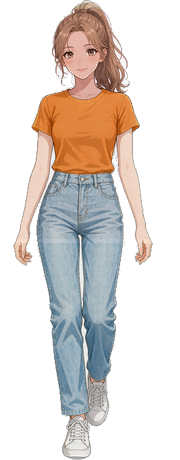
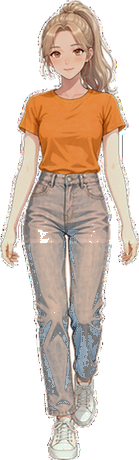
fix: 走路时发型会变——迈步帧的头发与站姿不一致
走路是 A(迈步)/B(并腿) 两帧交替。B 帧当初是从站姿反向「站直」派生的，
所以和站姿一致；A 帧是另一次独立生成，头发跟着重画了：

- 林知夏：A 帧发量明显更大、盖住耳朵，B 帧和站姿是别耳后的短发
- 苏桃：正面 A 帧头发整个披散、完全没扎马尾，B 帧和站姿都是高马尾

于是交替播放时头发在两帧之间跳。

处理：以 B 帧为参考、input_fidelity=high 做图生图，只改头发，保持姿势/脸/服装不变
（姿势没动，所以模型这次没有把腿改回去）：

- lin_walk1（侧面迈步）→ 头发改短改贴伏、别耳后
- lin_walk_f1（正面迈步）→ 同上
- su_walk_f1（正面迈步）→ 头发改回高马尾

新帧经 matte.prepare 归一化到 460 高，并按站姿/B 帧做明度对齐
（苏桃的橙色 T 恤与牛仔裤分别取样后再校正，避免把蓝色牛仔裤带偏）。

陈屿、江野两套 A/B 帧逐张核对过，发型一致，未改动。

图片版本串 ?v=9 → ?v=10

diff --git a/campus-life/web/bundle.js b/campus-life/web/bundle.js
@@ -2095,7 +2095,7 @@ function walkTexture(id, n, view) {
   // 侧面沿用旧命名；正面 / 背面加 f / b 后缀，各自是独立素材
   const tail = v === 'front' ? '_walk_f' + n : v === 'back' ? '_walk_b' + n : '_walk' + n;
   // 换图后必须带版本串：预览面板会按 URL 缓存旧图，导致「站着是新形象、一走还是旧图」
-  img.src = STANDEE_SRC + id + tail + '.png?v=9';
+  img.src = STANDEE_SRC + id + tail + '.png?v=10';
   return null;
 }
 

diff --git a/campus-life/miniprogram/engine/renderer.js b/campus-life/miniprogram/engine/renderer.js
@@ -183,7 +183,7 @@ function walkTexture(id, n, view) {
   // 侧面沿用旧命名；正面 / 背面加 f / b 后缀，各自是独立素材
   const tail = v === 'front' ? '_walk_f' + n : v === 'back' ? '_walk_b' + n : '_walk' + n;
   // 换图后必须带版本串：预览面板会按 URL 缓存旧图，导致「站着是新形象、一走还是旧图」
-  img.src = STANDEE_SRC + id + tail + '.png?v=9';
+  img.src = STANDEE_SRC + id + tail + '.png?v=10';
   return null;
 }
 
